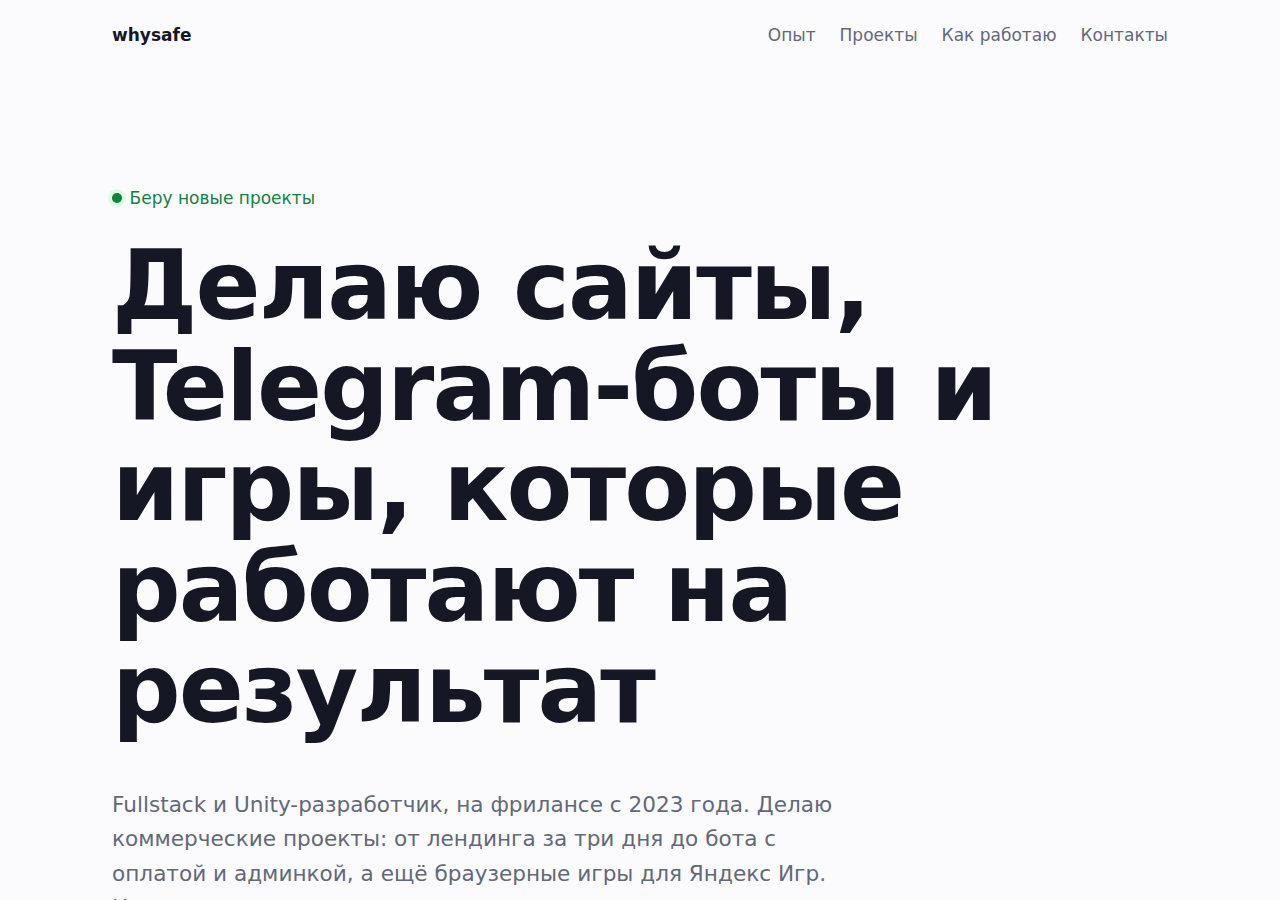
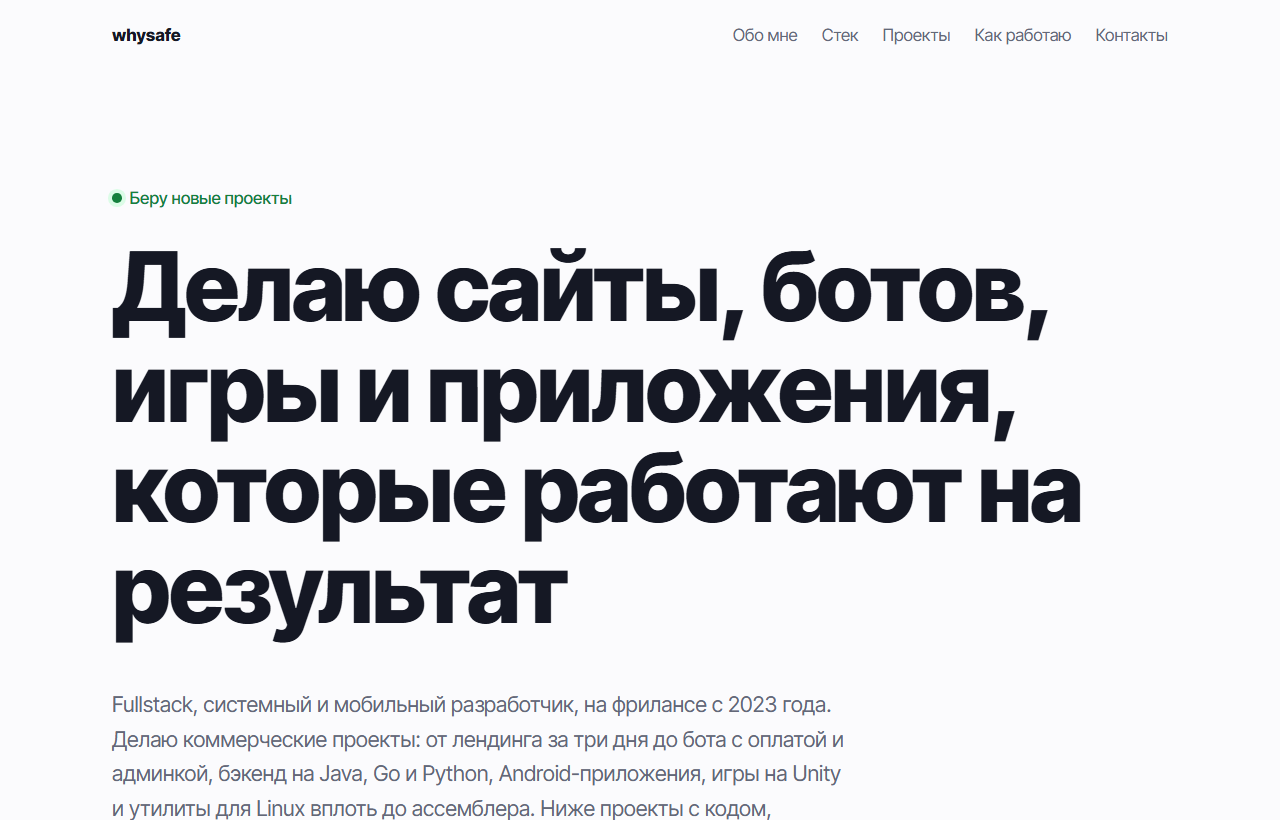
Обо мне, стек с фильтром проектов по технологии, контакты

diff --git a/index.html b/index.html
@@ -3,8 +3,8 @@
 <head>
 <meta charset="utf-8">
 <meta name="viewport" content="width=device-width, initial-scale=1">
-<title>whysafe: разработчик сайтов, Telegram-ботов и игр</title>
-<meta name="description" content="Делаю сайты, Telegram-боты, парсеры и backend на Python. Москва, удалённо.">
+<title>whysafe: разработчик сайтов, ботов, игр и приложений</title>
+<meta name="description" content="whysafe: fullstack, системный и мобильный разработчик. Сайты, Telegram-боты, игры, бэкенд, Android, Linux. Python, Java, Kotlin, C, C++, C#, Go, Swift, Lua, Assembly, PostgreSQL, MySQL. Москва, удалённо.">
 <link rel="preconnect" href="https://fonts.googleapis.com">
 <link rel="preconnect" href="https://fonts.gstatic.com" crossorigin>
 <link href="https://fonts.googleapis.com/css2?family=Inter+Tight:wght@400;500;700;800&display=swap" rel="stylesheet">
@@ -95,29 +95,85 @@ footer{color:var(--muted);font-size:.9rem;padding:2rem 0 3rem}
 }
 @media (max-width:520px){.services,.process{grid-template-columns:1fr}.services div+div{padding-left:0;border-left:0;border-top:1px solid var(--line)}}
 .contact>*{min-width:0}.contact a{overflow-wrap:anywhere}
+.facts{display:flex;flex-wrap:wrap;gap:.6rem 2rem;margin-top:2.2rem;color:var(--muted);font-size:.98rem}
+.facts b{color:var(--ink);font-size:1.5rem;font-weight:800;margin-right:.35rem;letter-spacing:-.02em}
+.about{display:grid;grid-template-columns:1.25fr 1fr;gap:clamp(1.5rem,5vw,4rem);align-items:start}
+.about p{font-size:1.12rem;margin:0 0 1rem}
+.about p.muted{color:var(--muted);font-size:1rem}
+.card-info{background:#fff;border:1px solid var(--line);border-radius:20px;padding:1.2rem 1.5rem}
+.card-info div{display:flex;justify-content:space-between;gap:1rem;padding:.6rem 0;border-bottom:1px dashed var(--line);font-size:.98rem}
+.card-info div:last-child{border-bottom:0}
+.card-info span{color:var(--muted)}
+.card-info b,.card-info a{text-align:right;font-weight:700;text-decoration:none;overflow-wrap:anywhere}
+.card-info a{color:var(--accent)}
+.card-info a:hover{text-decoration:underline}
+.techs{display:grid;grid-template-columns:repeat(3,1fr);gap:1rem}
+.tgroup{border:1px solid var(--line);border-radius:20px;padding:1.3rem 1.4rem;background:#fff}
+.tgroup h3{font-size:1.05rem;margin:0 0 .25rem}
+.tgroup p{margin:0 0 .9rem;color:var(--muted);font-size:.92rem;line-height:1.45}
+.chips{display:flex;flex-wrap:wrap;gap:.4rem}
+.chip{display:inline-flex;align-items:center;gap:.45em;font:500 .9rem "Inter Tight",sans-serif;padding:.35em .75em;border-radius:999px;background:#F2F3F7;color:var(--ink);border:0}
+.chip i{width:.6em;height:.6em;border-radius:50%;background:var(--c,#999);flex:none}
+.chip sup{font-size:.72em;color:var(--accent);font-weight:700}
+button.chip{cursor:pointer}
+button.chip:hover{background:var(--accent-soft);color:var(--accent)}
+.tech-note{margin-top:1rem;color:var(--muted);font-size:.92rem}
+.techbar{display:flex;align-items:center;gap:.8rem;flex-wrap:wrap;margin:-1rem 0 1.5rem;padding:.7rem 1rem;border-radius:14px;background:var(--accent-soft);color:var(--accent);font-weight:600}
+.techbar[hidden]{display:none}
+.techbar button{border:0;background:#fff;color:var(--accent);font:inherit;font-size:.9rem;padding:.3em .8em;border-radius:999px;cursor:pointer}
+@media (max-width:960px){.techs{grid-template-columns:1fr 1fr}}
+@media (max-width:860px){.about{grid-template-columns:1fr}}
+@media (max-width:600px){.techs{grid-template-columns:1fr}}
 </style>
 </head>
 <body>
 <div class="wrap">
-  <nav class="top"><span class="me">whysafe</span><div><a href="#experience">Опыт</a><a href="#work">Проекты</a><a href="#process">Как работаю</a><a href="#contact">Контакты</a></div></nav>
+  <nav class="top"><span class="me">whysafe</span><div><a href="#about">Обо мне</a><a href="#stack">Стек</a><a href="#work">Проекты</a><a href="#process">Как работаю</a><a href="#contact">Контакты</a></div></nav>
 
   <header class="hero">
     <span class="status">Беру новые проекты</span>
-    <h1>Делаю сайты, Telegram-боты и игры, которые работают на результат</h1>
-    <p>Fullstack и Unity-разработчик, на фрилансе с 2023 года. Делаю коммерческие проекты: от лендинга за три дня до бота с оплатой и админкой, а ещё браузерные игры для Яндекс Игр. Ниже проекты с кодом, которые можно открыть и потрогать: сайты, сервисы, игры, боты и автоматизация.</p>
+    <h1>Делаю сайты, ботов, игры и приложения, которые работают на результат</h1>
+    <p>Fullstack, системный и мобильный разработчик, на фрилансе с 2023 года. Делаю коммерческие проекты: от лендинга за три дня до бота с оплатой и админкой, бэкенд на Java, Go и Python, Android-приложения, игры на Unity и утилиты для Linux вплоть до ассемблера. Ниже проекты с кодом, которые можно открыть и потрогать.</p>
     <div class="cta">
       <a class="btn" href="#contact">Обсудить проект</a>
       <a class="btn alt" href="#work">Посмотреть работы</a>
     </div>
+    <div class="facts" id="facts"></div>
   </header>
 
   <div class="services">
     <div><b>Сайты</b><span>Лендинги, каталоги, интернет-магазины. Адаптив, быстрая загрузка.</span></div>
     <div><b>Telegram-боты</b><span>Запись клиентов, магазины, уведомления, админ-панель.</span></div>
-    <div><b>Python</b><span>Парсеры, API на FastAPI, автоматизация рутины.</span></div>
-    <div><b>Игры</b><span>HTML5 и Unity WebGL, публикация в Яндекс Играх.</span></div>
-    <div><b>Серверы</b><span>Деплой на VPS, Docker, домен, SSL, бэкапы.</span></div>
+    <div><b>Бэкенд и базы</b><span>Python, Java, Go, C#. PostgreSQL, MySQL, API и автоматизация.</span></div>
+    <div><b>Игры и мобильные</b><span>Unity, HTML5, Яндекс Игры. Android на Kotlin, iOS на Swift.</span></div>
+    <div><b>Linux и системное</b><span>Серверы, Docker, Bash, утилиты на C, C++ и Assembly.</span></div>
   </div>
+
+  <section id="about">
+    <div class="head"><h2>Обо мне</h2></div>
+    <div class="about">
+      <div>
+        <p>Меня зовут whysafe, я разработчик из Москвы и работаю удалённо. Начинал с сайтов и Telegram-ботов на заказ, потом ушёл глубже: бэкенд и базы данных, Android, игры на Unity, Linux и системное программирование.</p>
+        <p>Мне нравится, когда код понятен и проверен: почти у каждого проекта здесь есть тесты, CI на GitHub Actions и README с инструкцией запуска. Заказчику я отдаю не только результат, но и исходники с доступами.</p>
+        <p class="muted">Беру задачи от небольших доработок до проектов под ключ. Если задача не моя, скажу честно и подскажу, к кому обратиться.</p>
+      </div>
+      <div class="card-info">
+        <div><span>Где</span><b>Москва, удалённо</b></div>
+        <div><span>На фрилансе</span><b>с 2023 года</b></div>
+        <div><span>Отзывы</span><a href="https://kwork.ru/user/whysafe">140+ на Kwork</a></div>
+        <div><span>Telegram</span><a href="https://t.me/yawhysafe">@yawhysafe</a></div>
+        <div><span>Почта</span><a href="mailto:hello@whysafe.ru">hello@whysafe.ru</a></div>
+        <div><span>Сайт</span><a href="https://whysafe.ru">whysafe.ru</a></div>
+        <div><span>Код</span><a href="https://github.com/whysafe">github.com/whysafe</a></div>
+      </div>
+    </div>
+  </section>
+
+  <section id="stack" style="padding-top:0">
+    <div class="head"><h2>Стек</h2></div>
+    <div class="techs" id="techs"></div>
+    <p class="tech-note">Нажмите на технологию с цифрой, чтобы увидеть проекты с ней.</p>
+  </section>
 
   <section id="experience" hidden>
     <div class="head"><h2>Опыт</h2><a id="expLink" href="#" target="_blank" rel="noopener" hidden>Профиль с отзывами →</a></div>
@@ -131,6 +187,7 @@ footer{color:var(--muted);font-size:.9rem;padding:2rem 0 3rem}
       <h2>Проекты</h2>
       <div class="filters" id="filters" role="group" aria-label="Фильтр проектов"></div>
     </div>
+    <div class="techbar" id="techbar" hidden></div>
     <div class="projects" id="projects"></div>
   </section>
 
@@ -156,10 +213,11 @@ footer{color:var(--muted);font-size:.9rem;padding:2rem 0 3rem}
         <li><a href="mailto:hello@whysafe.ru">Почта <small>hello@whysafe.ru</small></a></li>
         <li><a href="https://kwork.ru/user/whysafe">Kwork <small>kwork.ru/user/whysafe</small></a></li>
         <li><a href="https://t.me/whysafe_official">Канал <small>@whysafe_official</small></a></li>
+        <li><a href="https://github.com/whysafe">GitHub <small>github.com/whysafe</small></a></li>
       </ul>
     </div>
   </section>
-  <footer>© 2026 whysafe</footer>
+  <footer>© 2026 whysafe · <a href="https://t.me/yawhysafe">Telegram</a> · <a href="mailto:hello@whysafe.ru">hello@whysafe.ru</a> · <a href="https://whysafe.ru">whysafe.ru</a></footer>
 </div>
 
 <script>
@@ -490,6 +548,44 @@ const PROJECTS = [
    text:'Десктоп-приложение: расходы по месяцам, категории, диаграмма и экспорт в CSV.',
    feats:['Диаграмма на Canvas','Хранилище покрыто тестами'], stack:['Python','Tkinter','SQLite']}
 ];
+// Стек. Третий элемент — как технология записана в stack у проектов (точно или с версией: «Java 21»)
+const TECH = [
+  {title:'Языки', note:'На чём пишу каждый день и для отдельных задач', items:[
+    ['Python','#3776AB'],['JavaScript','#F7DF1E'],['TypeScript','#3178C6'],['Java','#E76F00'],['Kotlin','#7F52FF'],
+    ['C','#A8B9CC',['C11']],['C++','#00599C'],['C#','#512BD4',['C# 12','C#']],['Go','#00ADD8'],['Swift','#F05138'],
+    ['PHP','#777BB4',['PHP 8','PHP']],['Lua','#2C2D72'],['Bash','#4EAA25'],['Assembly','#6E4C13',['x86-64 Assembly','NASM']],['SQL','#336791']]},
+  {title:'Мобильная разработка', note:'Нативные приложения под Android и iOS', items:[
+    ['Android Studio','#3DDC84',['Kotlin']],['Kotlin','#7F52FF'],['Jetpack Compose','#4285F4',['Jetpack Compose','Compose']],['Swift','#F05138'],['Coroutines','#7F52FF']]},
+  {title:'Базы данных', note:'Схемы, миграции, запросы и отчёты', items:[
+    ['PostgreSQL','#336791'],['MySQL','#4479A1'],['phpMyAdmin','#6C78AF'],['SQLite','#003B57'],['Flyway','#CC0200']]},
+  {title:'Бэкенд и веб', note:'API, сайты, админки и боты', items:[
+    ['Django','#092E20',['Django 5']],['FastAPI','#009688'],['Flask','#555'],['Spring Boot','#6DB33F',['Spring Boot 3']],
+    ['.NET','#512BD4',['.NET 8']],['React','#61DAFB',['React 18']],['aiogram','#2CA5E0',['aiogram 3']],['HTML и CSS','#E34F26',['HTML','CSS']]]},
+  {title:'Linux и серверы', note:'Дистрибутивы, настройка серверов и деплой', items:[
+    ['Linux','#FCC624',['Linux syscalls','POSIX','Ubuntu','systemd','Bash']],['Ubuntu','#E95420'],['Debian','#A81D33'],['Arch Linux','#1793D1'],
+    ['Docker','#2496ED'],['systemd','#30D475'],['Nginx и Caddy','#009639',['Caddy']],['GitHub Actions','#2088FF']]},
+  {title:'Игры и графика', note:'От HTML5-игр до Unity и эмуляторов', items:[
+    ['Unity','#222'],['C#','#512BD4',['C# 12','C#']],['Lua','#2C2D72'],['Canvas','#E34F26'],['Web Audio','#999'],['Yandex Games SDK','#FC3F1D']]},
+];
+const techMatch = ([name, , match]) => p => p.stack.some(s => (match || [name]).some(m => s === m || s.startsWith(m + ' ')));
+let activeTech = null;
+function renderTech(){
+  document.getElementById('techs').innerHTML = TECH.map((g, gi) => `<div class="tgroup"><h3>${g.title}</h3><p>${g.note}</p><div class="chips">${
+    g.items.map((t, ti) => {
+      const n = PROJECTS.filter(techMatch(t)).length;
+      return n ? `<button type="button" class="chip" style="--c:${t[1]}" data-tech="${gi}.${ti}" aria-label="${t[0]}: проектов ${n}"><i></i>${t[0]}<sup>${n}</sup></button>`
+               : `<span class="chip" style="--c:${t[1]}"><i></i>${t[0]}</span>`;
+    }).join('')}</div></div>`).join('');
+}
+document.getElementById('techs').addEventListener('click', e => {
+  const b = e.target.closest('[data-tech]'); if (!b) return;
+  const [gi, ti] = b.dataset.tech.split('.').map(Number);
+  activeTech = TECH[gi].items[ti]; active = 'all'; render();
+  document.getElementById('work').scrollIntoView({behavior:'smooth'});
+});
+const years = new Date().getFullYear() - 2023;
+document.getElementById('facts').innerHTML = `<span><b>${PROJECTS.length}</b>проектов с кодом</span><span><b>${TECH[0].items.length}</b>языков программирования</span><span><b>140+</b>отзывов на Kwork</span><span><b>${years}+</b>${years === 1 ? 'год' : years < 5 ? 'года' : 'лет'} на фрилансе</span>`;
+
 const KINDS = {all:'Все', site:'Сайты', app:'Веб-приложения', game:'Игры', bot:'Боты', python:'Python', backend:'Бэкенд', system:'Системное', mobile:'Android', devops:'Серверы'};
 let active = 'all';
 
@@ -498,7 +594,10 @@ function render(){
     const n = k === 'all' ? PROJECTS.length : PROJECTS.filter(p => p.kind === k).length;
     return `<button type="button" data-kind="${k}" aria-pressed="${k === active}">${v}<sup>${n}</sup></button>`;
   }).join('');
-  const list = PROJECTS.filter(p => active === 'all' || p.kind === active);
+  const list = PROJECTS.filter(p => (active === 'all' || p.kind === active) && (!activeTech || techMatch(activeTech)(p)));
+  const bar = document.getElementById('techbar');
+  bar.hidden = !activeTech;
+  if (activeTech) bar.innerHTML = `Проекты с ${activeTech[0]}: ${list.length}<button type="button" id="techReset">Показать все</button>`;
   document.getElementById('projects').innerHTML = list.map(p => `
     <article class="project ${p.wide && active === 'all' ? 'wide' : ''}">
       <span class="kind">${p.label}</span>
@@ -510,8 +609,12 @@ function render(){
     </article>`).join('');
 }
 document.getElementById('filters').addEventListener('click', e => {
-  const b = e.target.closest('[data-kind]'); if (b) { active = b.dataset.kind; render(); }
+  const b = e.target.closest('[data-kind]'); if (b) { active = b.dataset.kind; activeTech = null; render(); }
 });
+document.getElementById('techbar').addEventListener('click', e => {
+  if (e.target.id === 'techReset') { activeTech = null; render(); }
+});
+renderTech();
 render();
 </script>
 </body>
